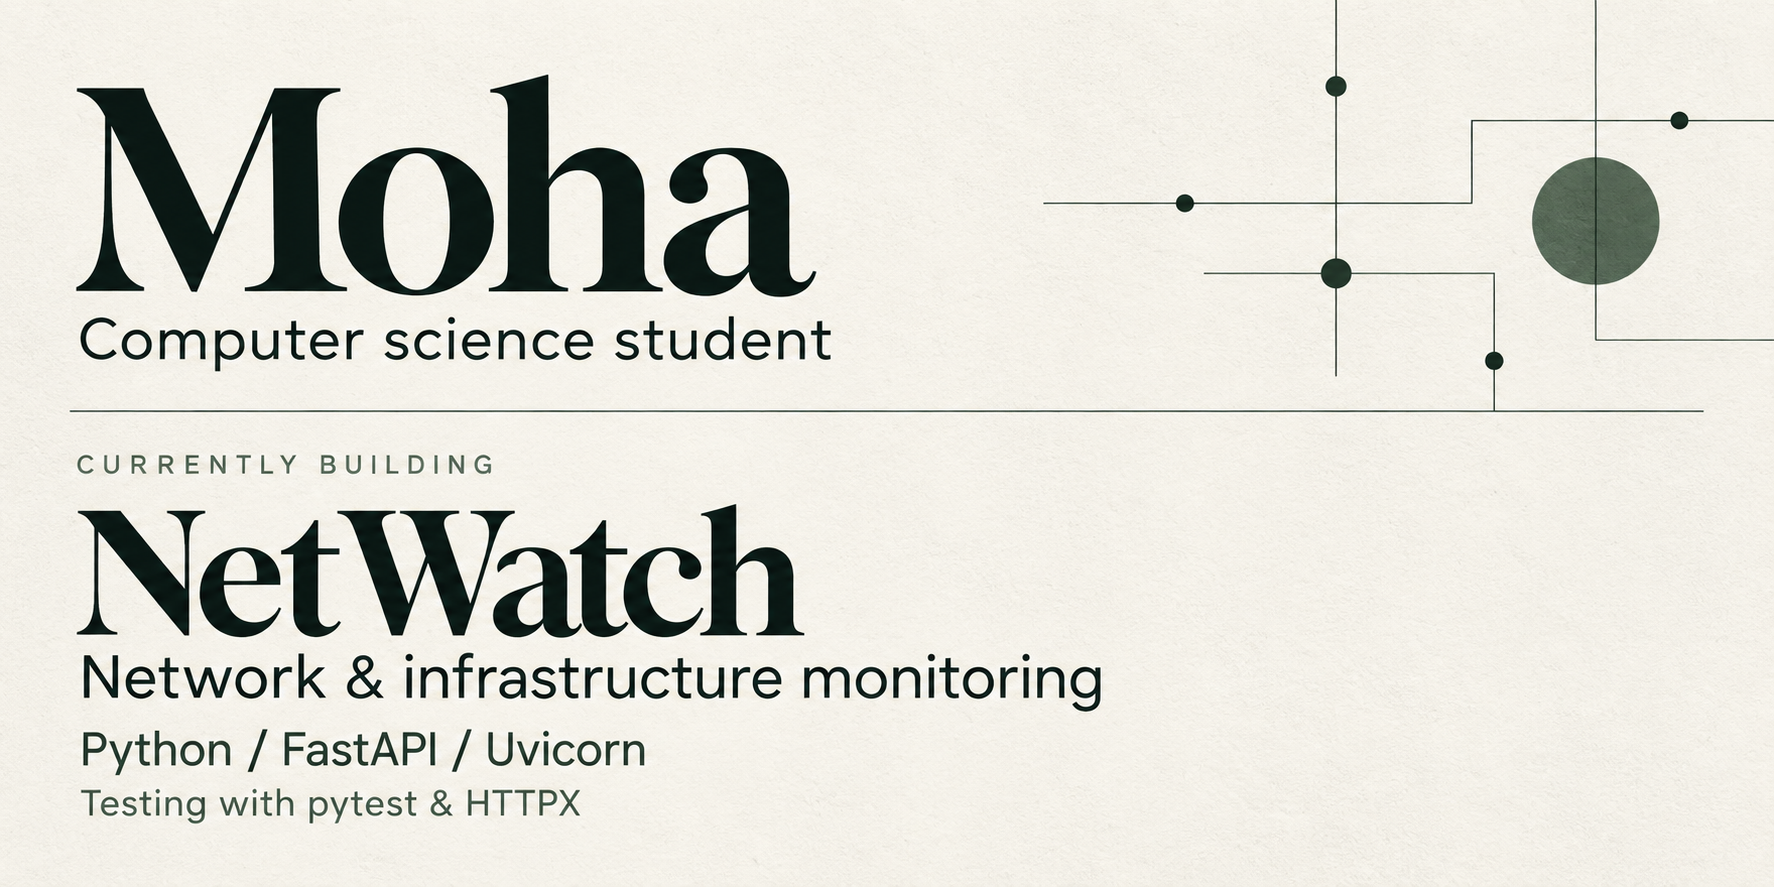
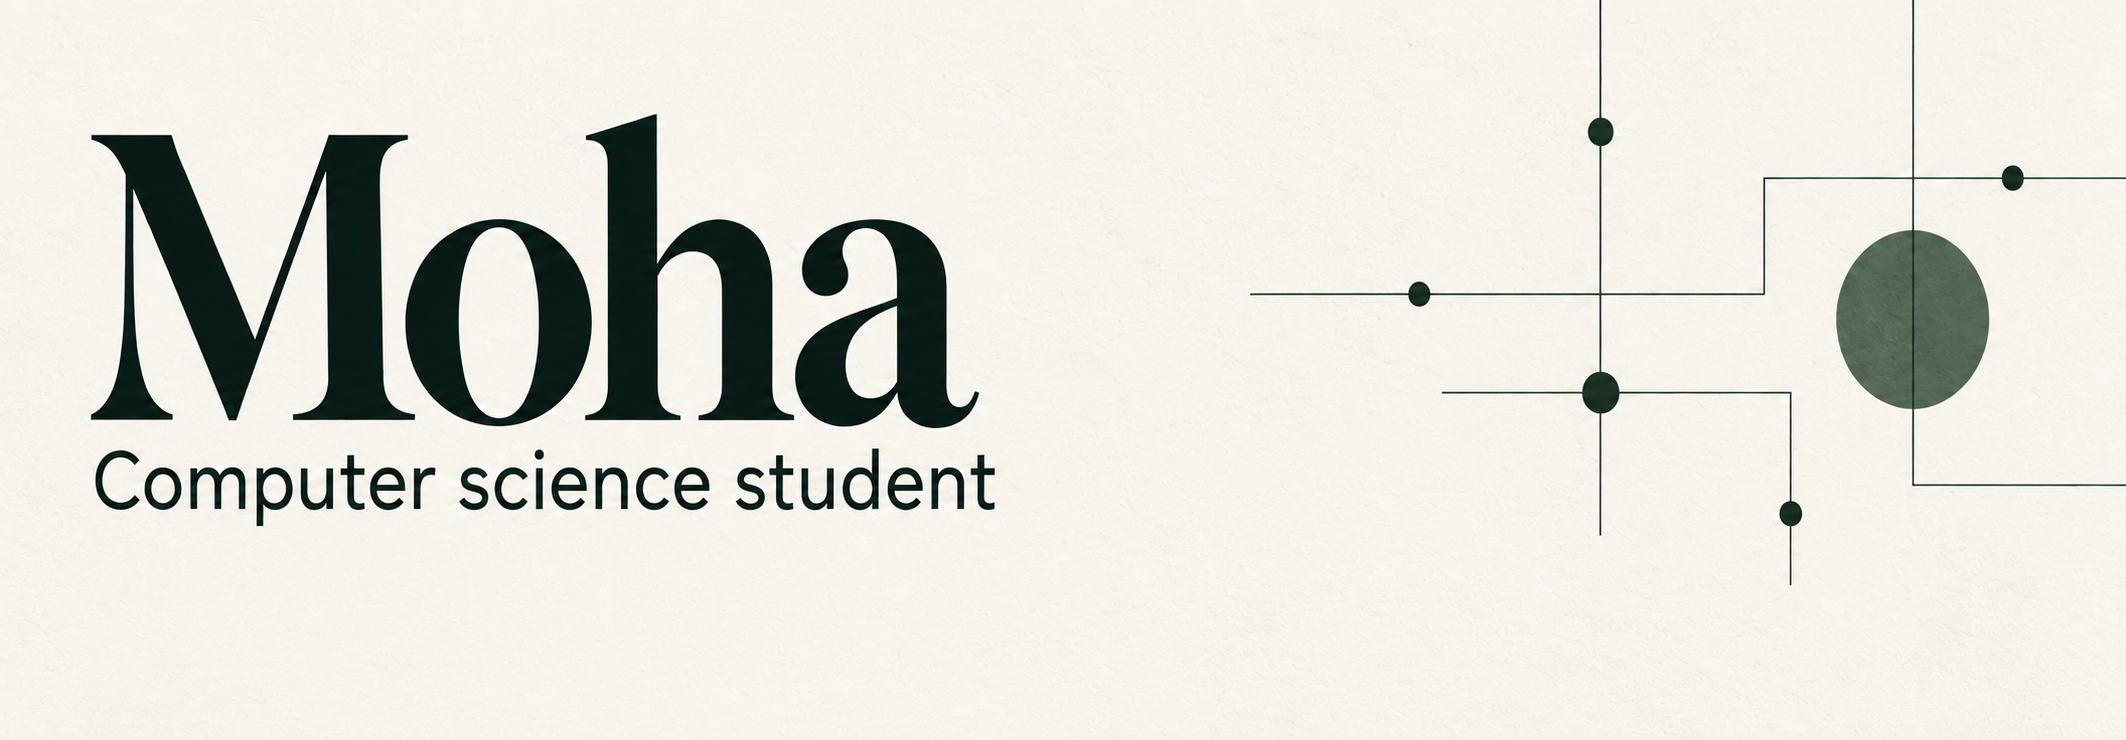
updating profile

diff --git a/README.md b/README.md
@@ -1,16 +1,20 @@
-<a href="https://github.com/itsMoha963/NetWatch">
-  <img src="assets/profile-header.png" width="100%" alt="Moha — Computer science student. Currently building NetWatch, a network and infrastructure monitoring system. Backend: Python, FastAPI and Uvicorn. Testing: pytest and HTTPX.">
-</a>
+<img src="assets/profile-header.png" width="100%" alt="Moha — Computer science student">
 
-<p align="center">
-  <a href="https://github.com/itsMoha963/NetWatch"><strong>Explore NetWatch</strong></a>
-  &nbsp;&nbsp;·&nbsp;&nbsp;
-  <a href="https://github.com/itsMoha963?tab=repositories">All repositories</a>
-</p>
+## Currently building
+
+<table width="100%">
+  <tr>
+    <td width="100%" valign="top">
+      <h3><a href="https://github.com/itsMoha963/NetWatch">NetWatch</a></h3>
+      <p>Network and infrastructure monitoring. Currently working on the backend API.</p>
+      <p><sub>Python &nbsp;·&nbsp; FastAPI &nbsp;·&nbsp; Uvicorn<br>Testing: pytest &nbsp;·&nbsp; HTTPX</sub></p>
+    </td>
+  </tr>
+</table>
 
 ## Selected work
 
-<table>
+<table width="100%">
   <tr>
     <td width="50%" valign="top">
       <h3><a href="https://github.com/itsMoha963/OnlyBikes">OnlyBikes</a></h3>
@@ -24,6 +28,10 @@
     </td>
   </tr>
 </table>
+
+<p align="center">
+  <a href="https://github.com/itsMoha963?tab=repositories">All repositories</a>
+</p>
 
 <details>
 <summary><strong>Languages &amp; tools</strong></summary>
